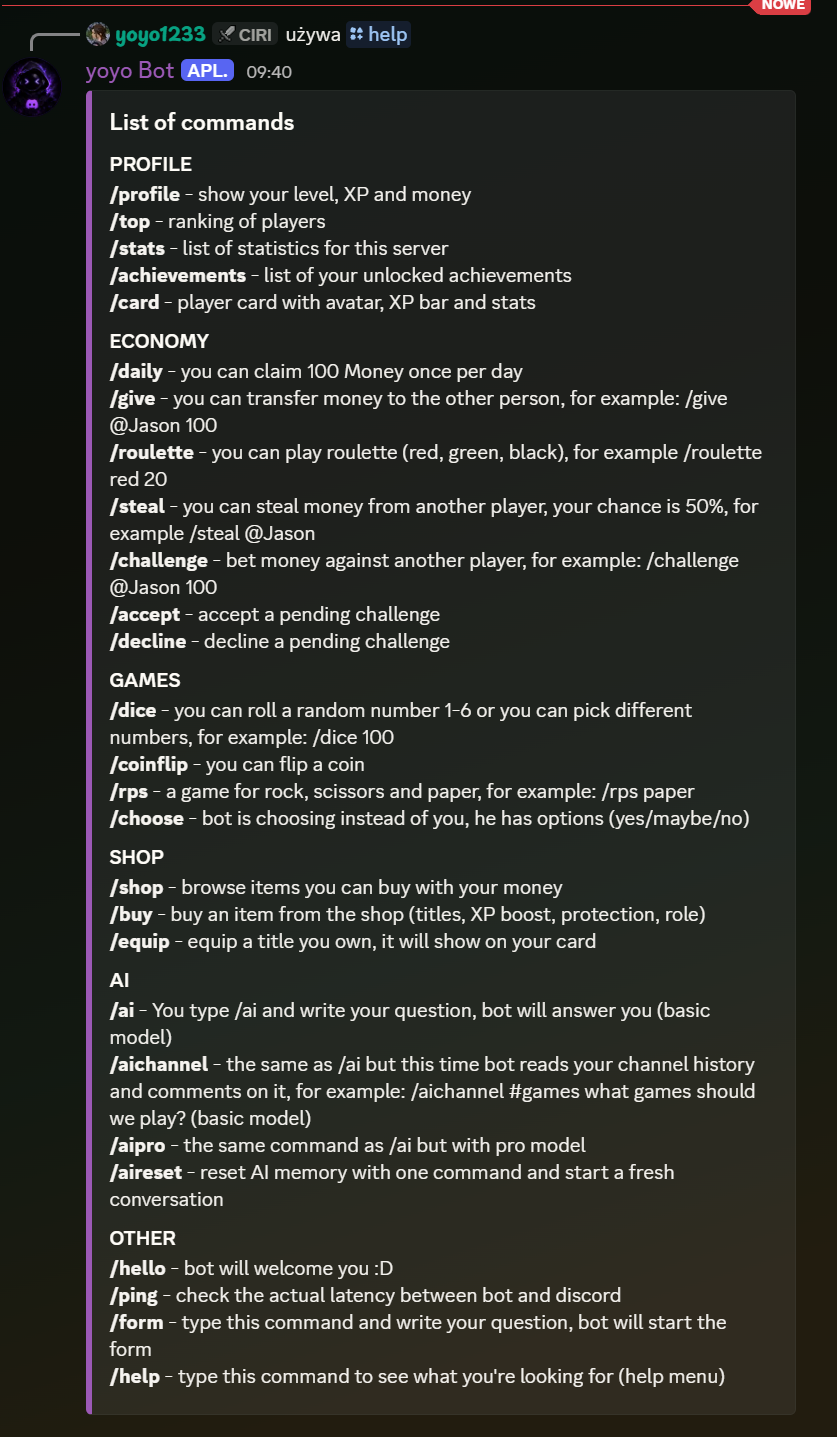
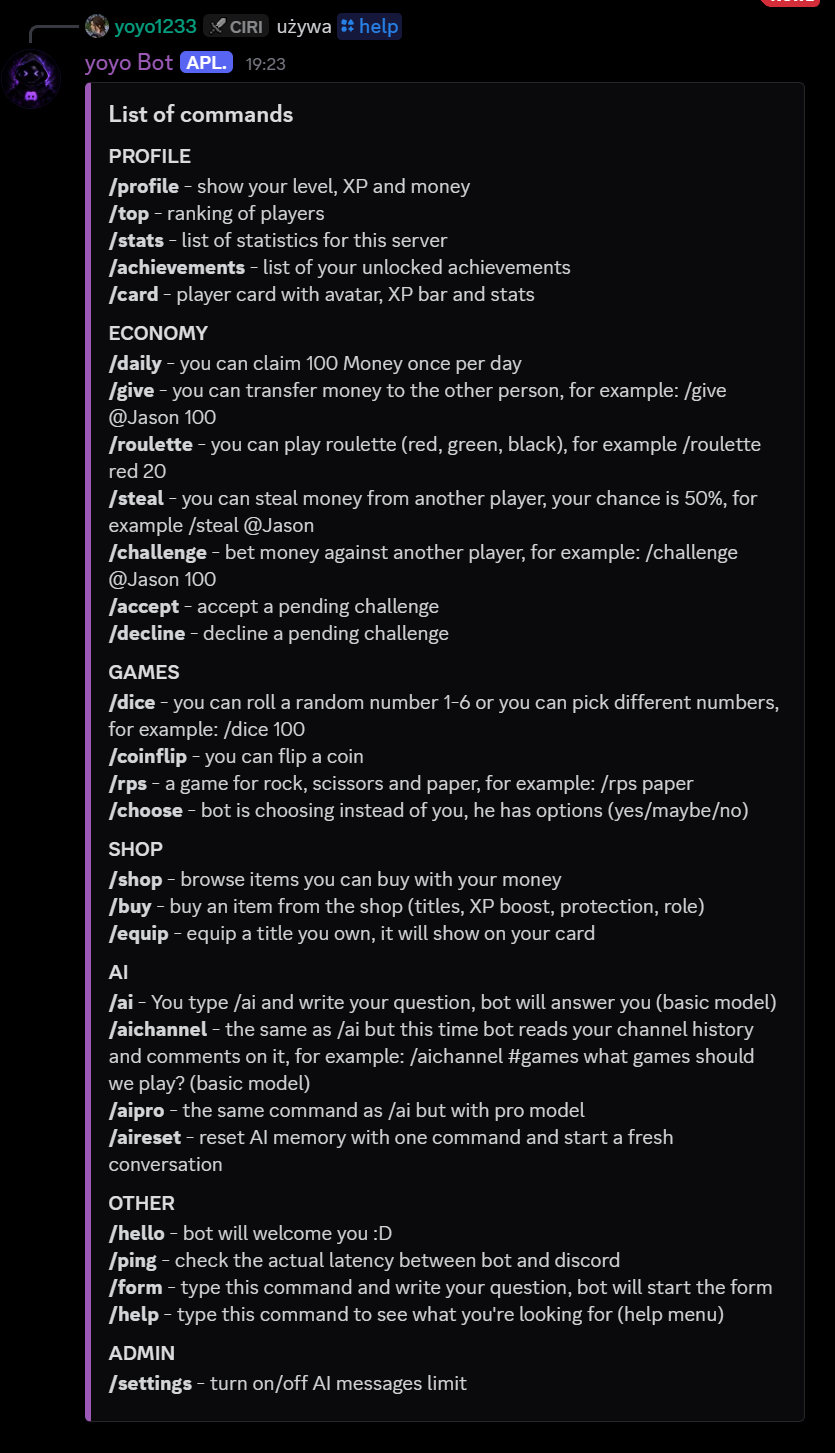
Add settings command to toggle AI rate limit

diff --git a/cogs/ai.py b/cogs/ai.py
@@ -2,7 +2,7 @@ import time
 import discord
 import logging
 from discord.ext import commands
-from utils.data import players, save_data, get_person_key
+from utils.data import players, save_data, get_person_key, get_guild_settings
 from utils.ai_client import openai_client
 from discord import app_commands
 
@@ -33,7 +33,7 @@ class AI(commands.Cog):
     #The same logic to run both ai/aipro commands
     async def run_ai(self, interaction: discord.Interaction, question, model, max_tokens):
         person_key = get_person_key(interaction.user.id, interaction.guild.id)
-        if self.is_rate_limited(interaction.user.id):
+        if get_guild_settings(interaction.guild.id)['ai_rate_limit'] and self.is_rate_limited(interaction.user.id):
             await interaction.response.send_message(f"You've run out of {AI_CALL_LIMIT} AI messages! Try again in {AI_RATE_WINDOW // 60} minutes!")
             return
         await interaction.response.defer()
@@ -103,7 +103,7 @@ class AI(commands.Cog):
     # AI with channel context - read 50 messages from the given channel
     @app_commands.command(name='aichannel', description='Chat with the basic AI model about messages on server channel')
     async def aichannel(self, interaction: discord.Interaction, channel: discord.TextChannel, question: str):
-        if self.is_rate_limited(interaction.user.id):
+        if get_guild_settings(interaction.guild.id)['ai_rate_limit'] and self.is_rate_limited(interaction.user.id):
             await interaction.response.send_message(f"You've run out of {AI_CALL_LIMIT} AI messages! Try again in {AI_RATE_WINDOW // 60} minutes!")
             return
         await interaction.response.defer()

diff --git a/cogs/misc.py b/cogs/misc.py
@@ -33,6 +33,7 @@ class Misc(commands.Cog):
         embed.add_field(name='SHOP', value="**/shop** - browse items you can buy with your money\n**/buy** - buy an item from the shop (titles, XP boost, protection, role)\n**/equip** - equip a title you own, it will show on your card", inline=False)
         embed.add_field(name='AI', value="**/ai** - You type /ai and write your question, bot will answer you (basic model)\n**/aichannel** - the same as /ai but this time bot reads your channel history and comments on it, for example: /aichannel #games what games should we play? (basic model)\n**/aipro** - the same command as /ai but with pro model\n**/aireset** - reset AI memory with one command and start a fresh conversation", inline=False)
         embed.add_field(name='OTHER', value="**/hello** - bot will welcome you :D\n**/ping** - check the actual latency between bot and discord\n**/form** - type this command and write your question, bot will start the form\n**/help** - type this command to see what you're looking for (help menu)", inline=False)
+        embed.add_field(name='ADMIN', value="**/settings** - turn on/off AI messages limit", inline=False)
         await interaction.response.send_message(embed=embed)
 
 async def setup(bot):

diff --git a/cogs/settings.py b/cogs/settings.py
@@ -1,0 +1,26 @@
+from discord import app_commands
+from discord.ext import commands
+import discord
+from utils.data import get_guild_settings, save_settings, settings
+
+
+class Settings(commands.Cog):
+    def __init__(self, bot):
+        self.bot = bot
+
+    @app_commands.command(name='settings', description='Turn on/off AI messages limit')
+    @app_commands.choices(setting=[
+        app_commands.Choice(name='AI rate limit', value='ai_rate_limit')
+    ])
+    async def settings_command(self, interaction: discord.Interaction, setting: app_commands.Choice[str], enabled: bool):
+        if not interaction.user.guild_permissions.administrator:
+            await interaction.response.send_message("You don't have permission to change this setting!")
+            return
+        guild_settings = get_guild_settings(interaction.guild.id)
+        guild_settings[setting.value] = enabled
+        save_settings(settings)
+        await interaction.response.send_message(f"The {setting.name} has been changed to {enabled}")
+
+
+async def setup(bot):
+    await bot.add_cog(Settings(bot))

diff --git a/utils/data.py b/utils/data.py
@@ -24,6 +24,16 @@ def save_settings(data):
 def get_person_key(user_id, guild_id):
     return f"{user_id}_{guild_id}"
 
+def get_guild_settings(guild_id):
+    key = str(guild_id)
+    if key not in settings:
+        settings[key] = {}
+    for name, value in DEFAULT_SETTINGS.items():
+        if name not in settings[key]:
+            settings[key][name] = value
+    return settings[key]
+
+
 players = load_data()
 settings = load_settings()
 DEFAULT_PROFILE = {'xp': 0, 'level': 1, 'money': 0, 'last_daily': 0, 'messages': 0, 'total_messages': 0, 'achievements': {'500_messages': False, 'level_5': False, '500_money': False}, 'ai_memory': [], 'inventory': [], 'active_title': None, 'boost_until': 0, 'protected_until': 0, 'boost_last_bought': 0, 'protection_last_bought': 0}

diff --git a/bot.py b/bot.py
@@ -27,6 +27,7 @@ async def on_ready():
     await client.load_extension('cogs.misc')
     await client.load_extension('cogs.ai')
     await client.load_extension('cogs.shop')
+    await client.load_extension('cogs.settings')
     synced = await client.tree.sync()
     logger.info(f'Synced {len(synced)} slash commands')
     logger.info(f'Bot is running as {client.user}')

diff --git a/README.md b/README.md
@@ -56,9 +56,9 @@ python bot.py
 ```
 
 ## Structure
-- `bot.py` - entry point, event handlers, loads cogs
-- `cogs/` - command modules
-- `utils/` - shared data and API client
+- `bot.py` - entry point, event handlers, XP system, loads cogs
+- `cogs/` - command modules: games, profile, economy, shop, AI, misc, settings
+- `utils/` - shared plyer data, server settings, AI client and player card generation
 
 ## Commands
 ### Profile
@@ -111,6 +111,11 @@ python bot.py
 | `/ping` | check the actual latency between bot and discord|
 | `/form` | type this command and write your question, bot will start the form|
 | `/help` | type this command to see what you're looking for (help menu)|
+
+### Admin
+| Command | Description                   |
+|---------|-------------------------------|
+|`/settings` | turn on/off AI messages limit |
 
 ## Preview
 ![Help command](screenshots/help.png)
